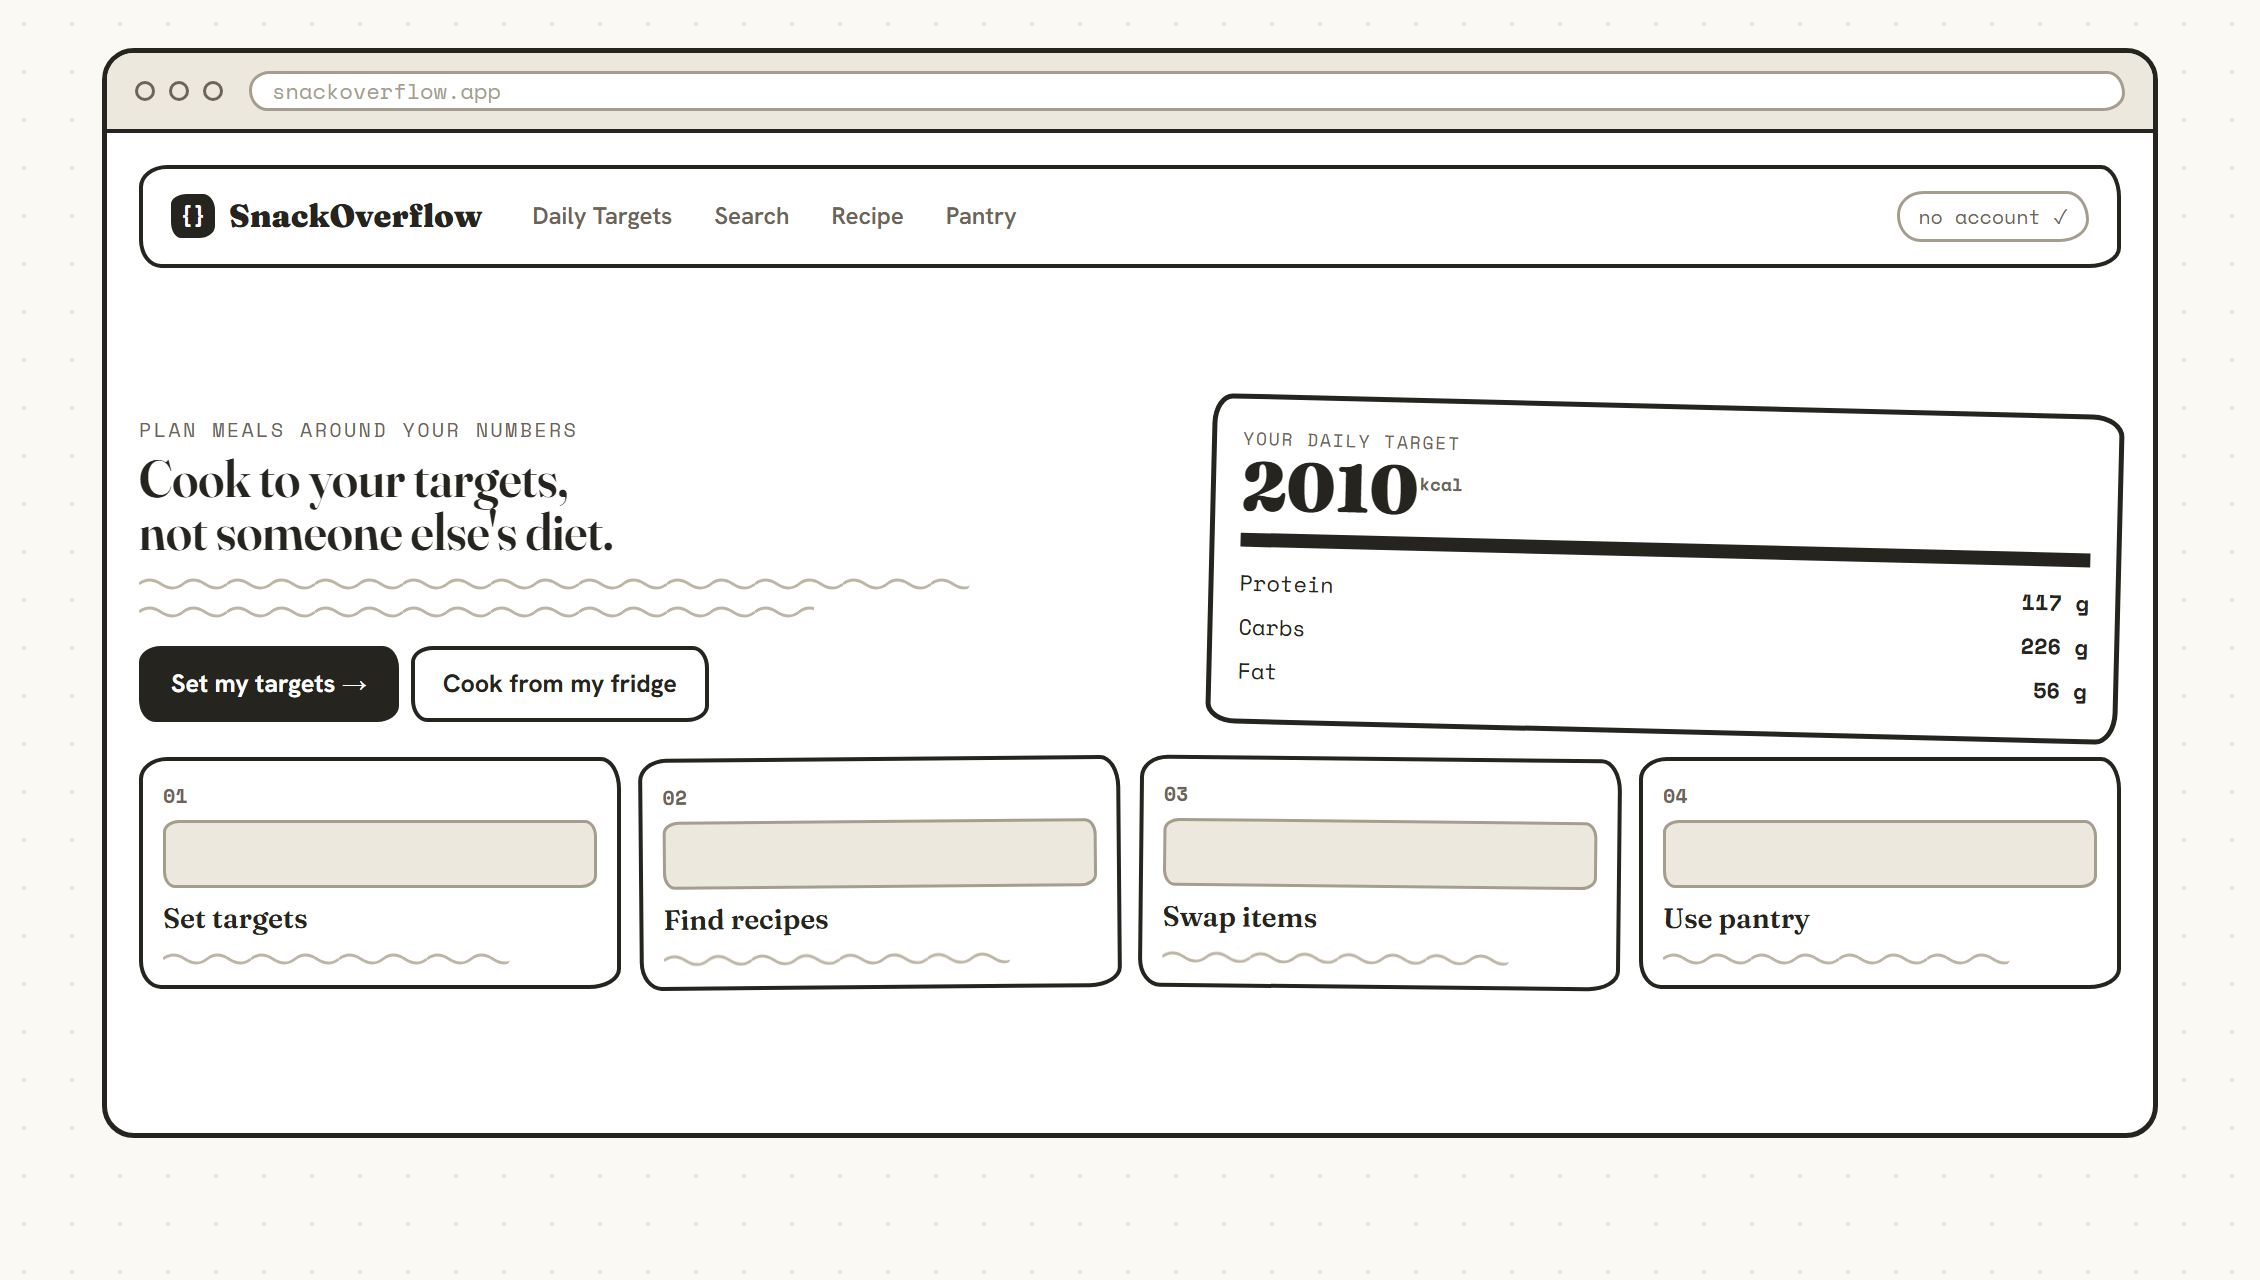
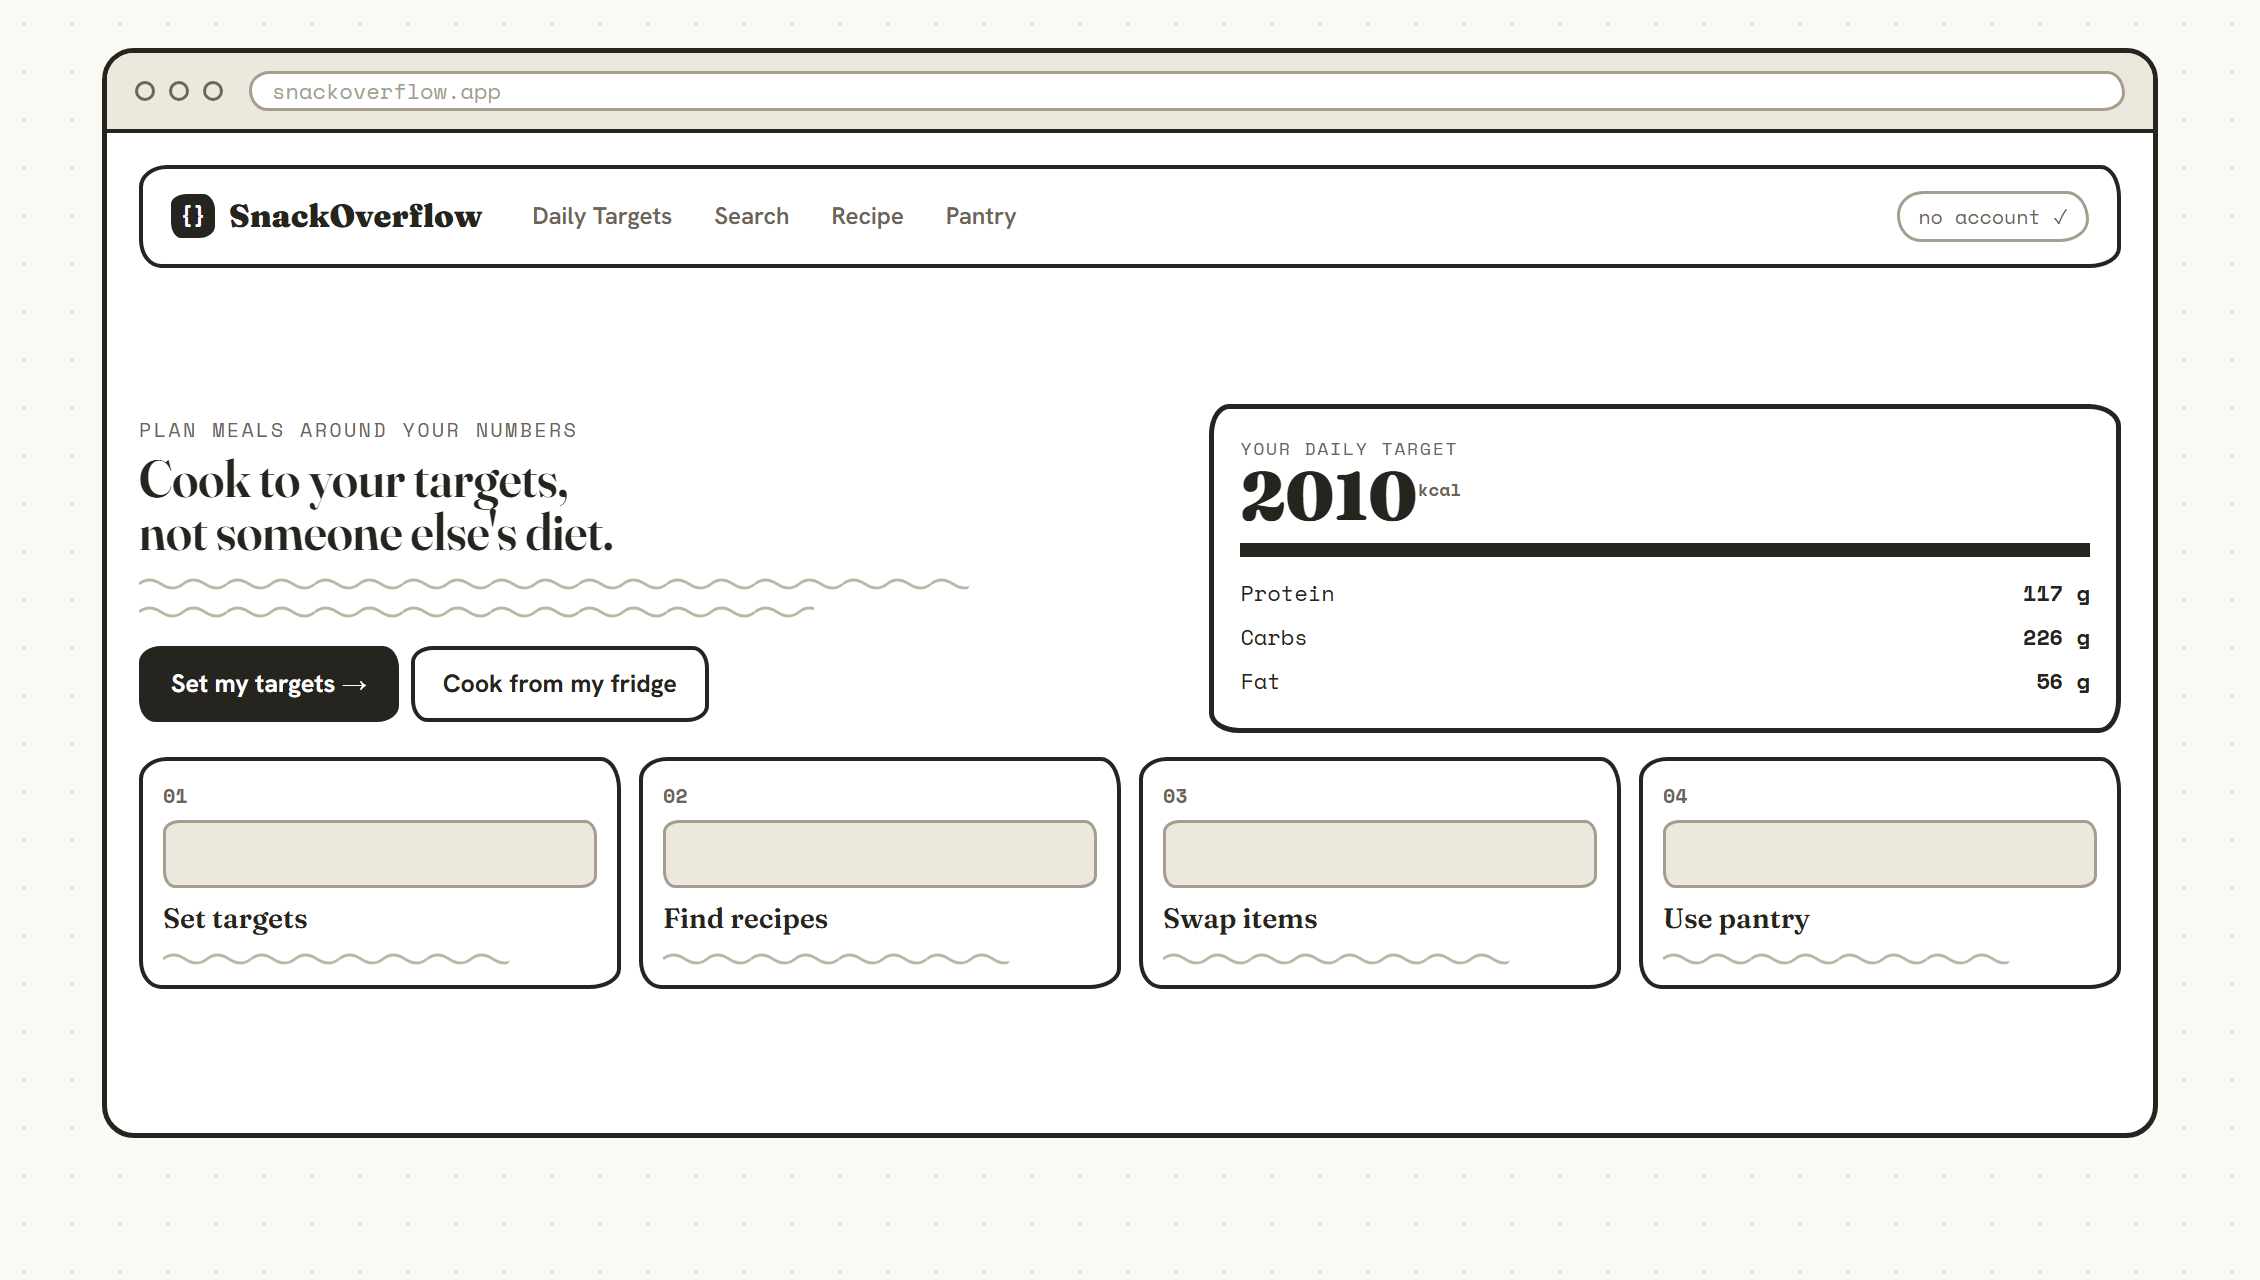
fix: change color to green; fix card positions

diff --git a/prototype.html b/prototype.html
@@ -10,8 +10,8 @@
 <style>
   :root{
     --paper:#FCFBF8; --card:#FFFFFF; --ink:#181712; --ink-soft:#5C564A;
-    --persimmon:#E2552B; --herb:#4E9D5B; --herb-d:#2F6B3E;
-    --protein:#C7452B; --carbs:#E0A23D; --fat:#5E8C6A;
+    --persimmon:#388E3C; --herb:#4E9D5B; --herb-d:#2F6B3E;
+    --protein:#1976D2; --carbs:#E0A23D; --fat:#5E8C6A;
     --rule:#181712; --hair:#E2DCCF; --hair2:#EFEADD; --soft-bg:#F4F1E9;
     --r:14px;
   }
@@ -48,8 +48,8 @@ nav{position:sticky;top:0;z-index:50;background:rgba(252,251,248,.88);backdrop-f
 .btn{font-size:15px;font-weight:700;background:var(--ink);color:var(--paper);border:none;padding:13px 22px;border-radius:11px;cursor:pointer;display:inline-flex;align-items:center;gap:9px;transition:.15s;box-shadow:4px 4px 0 var(--ink)}
   .btn:hover{transform:translate(-1px,-1px);box-shadow:5px 5px 0 var(--ink)}
   .btn:active{transform:translate(2px,2px);box-shadow:2px 2px 0 var(--ink)}
-  .btn.persim{background:var(--persimmon);box-shadow:4px 4px 0 #8f3015}
-  .btn.persim:hover{box-shadow:5px 5px 0 #8f3015}
+  .btn.persim{background:var(--persimmon);box-shadow:4px 4px 0 var(--ink)}
+  .btn.persim:hover{box-shadow:5px 5px 0 var(--ink)}
   .btn.ghost{background:#fff;color:var(--ink);border:1.5px solid var(--ink);box-shadow:none}
   .btn.ghost:hover{background:var(--soft-bg);transform:none}
   .btn:disabled{opacity:.4;cursor:not-allowed;box-shadow:none;transform:none}
@@ -60,7 +60,8 @@ nav{position:sticky;top:0;z-index:50;background:rgba(252,251,248,.88);backdrop-f
   .hero h1 em{font-style:italic;color:var(--persimmon)}
   .hero p{font-size:18px;color:var(--ink-soft);margin:18px 0 26px;max-width:44ch}
   .hero-cta{display:flex;gap:14px;flex-wrap:wrap}
-  .hero-card{background:var(--card);border:2px solid var(--ink);border-radius:18px;box-shadow:8px 8px 0 var(--ink);padding:24px;transform:rotate(1.2deg)}
+  .hero-card{position:relative;background:var(--card);border:2px solid var(--ink);border-radius:18px;box-shadow:8px 8px 0 var(--ink);padding:24px}
+  .demo-badge{position:absolute;top:14px;right:14px;font-family:'Space Mono',monospace;font-size:9px;font-weight:700;letter-spacing:.1em;background:var(--ink);color:var(--paper);padding:6px 10px;border-radius:6px}
   .hero-card .lab{font-family:'Space Mono',monospace;font-size:11px;letter-spacing:.1em;text-transform:uppercase;color:var(--ink-soft)}
   .hero-card .kcal{font-family:'Fraunces',serif;font-weight:900;font-size:56px;line-height:1;margin:4px 0 2px}
   .hero-card .kcal small{font-family:'Space Mono',monospace;font-size:13px;color:var(--ink-soft);font-weight:700}
@@ -277,6 +278,7 @@ nav{position:sticky;top:0;z-index:50;background:rgba(252,251,248,.88);backdrop-f
         </div>
       </div>
       <div class="hero-card">
+        <div class="demo-badge">DEMO</div>
         <div class="lab">Your daily target</div>
         <div class="kcal">2,010<small>kcal</small></div>
         <div class="hero-rule"></div>

diff --git a/lofi-prototype.html b/lofi-prototype.html
@@ -109,7 +109,7 @@
   .hero .ey{font-family:'Space Mono',monospace;font-size:10px;letter-spacing:.12em;text-transform:uppercase;color:var(--soft)}
   .btnsk{display:inline-block;border:2px solid var(--ink);border-radius:11px 8px 11px 8px/8px 11px 8px 11px;padding:8px 14px;font-size:12.5px;font-weight:700;background:#fff;margin:8px 6px 0 0}
   .btnsk.fill{background:var(--ink);color:#fff}
-  .herocard{flex:.9;border:2.5px solid var(--ink);border-radius:var(--w2);padding:13px;transform:rotate(1.4deg);background:#fff}
+  .herocard{flex:.9;border:2.5px solid var(--ink);border-radius:var(--w2);padding:13px;background:#fff}
   .herocard .cap{font-family:'Space Mono',monospace;font-size:9px;letter-spacing:.1em;text-transform:uppercase;color:var(--soft)}
   .herocard .big{font-family:'Fraunces',serif;font-weight:900;font-size:34px;line-height:1}
   .herocard .big sup{font-family:'Space Mono',monospace;font-size:9px;color:var(--soft)}
@@ -117,7 +117,6 @@
   .herocard .mrow{display:flex;justify-content:space-between;font-family:'Space Mono',monospace;font-size:11px;padding:3px 0}
   .taskrow{display:grid;grid-template-columns:repeat(4,1fr);gap:9px;margin-top:12px}
   .tcard{border:2px solid var(--ink);border-radius:var(--w1);padding:10px;background:#fff}
-  .tcard:nth-child(2){transform:rotate(-.5deg)}.tcard:nth-child(3){transform:rotate(.6deg)}
   .tcard .n{font-family:'Space Mono',monospace;font-size:10px;color:var(--soft);font-weight:700}
   .tcard .pic{height:34px;margin:5px 0}
   .tcard .ti{font-family:'Fraunces',serif;font-weight:600;font-size:14px;margin-bottom:5px}